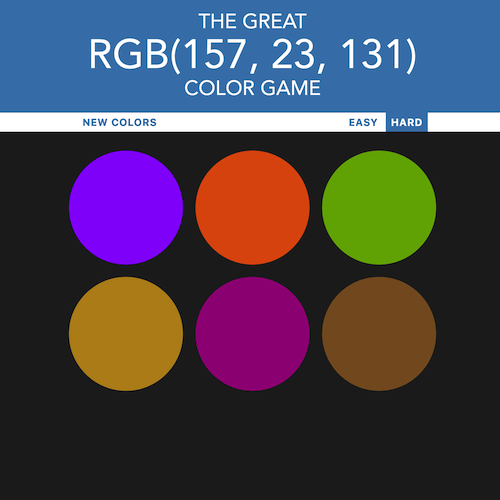
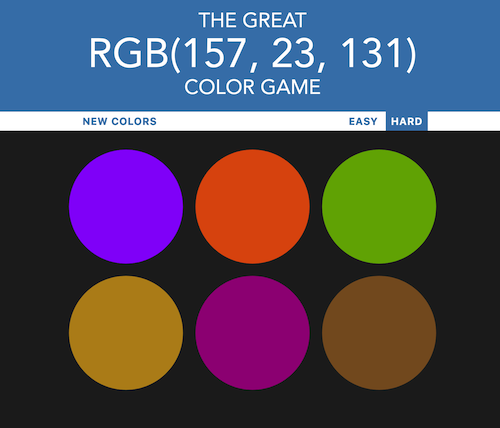
Update image allignment

diff --git a/src/assets/css/App.css b/src/assets/css/App.css
@@ -255,7 +255,7 @@ body.noScroll #modal{
     width: 25%;
     border: 2px solid var(--firstColor);
     border-radius: 5px;
-    min-height: 150px;
+    height: 370px;
     margin: 4.1%;
     float: left;
 }
